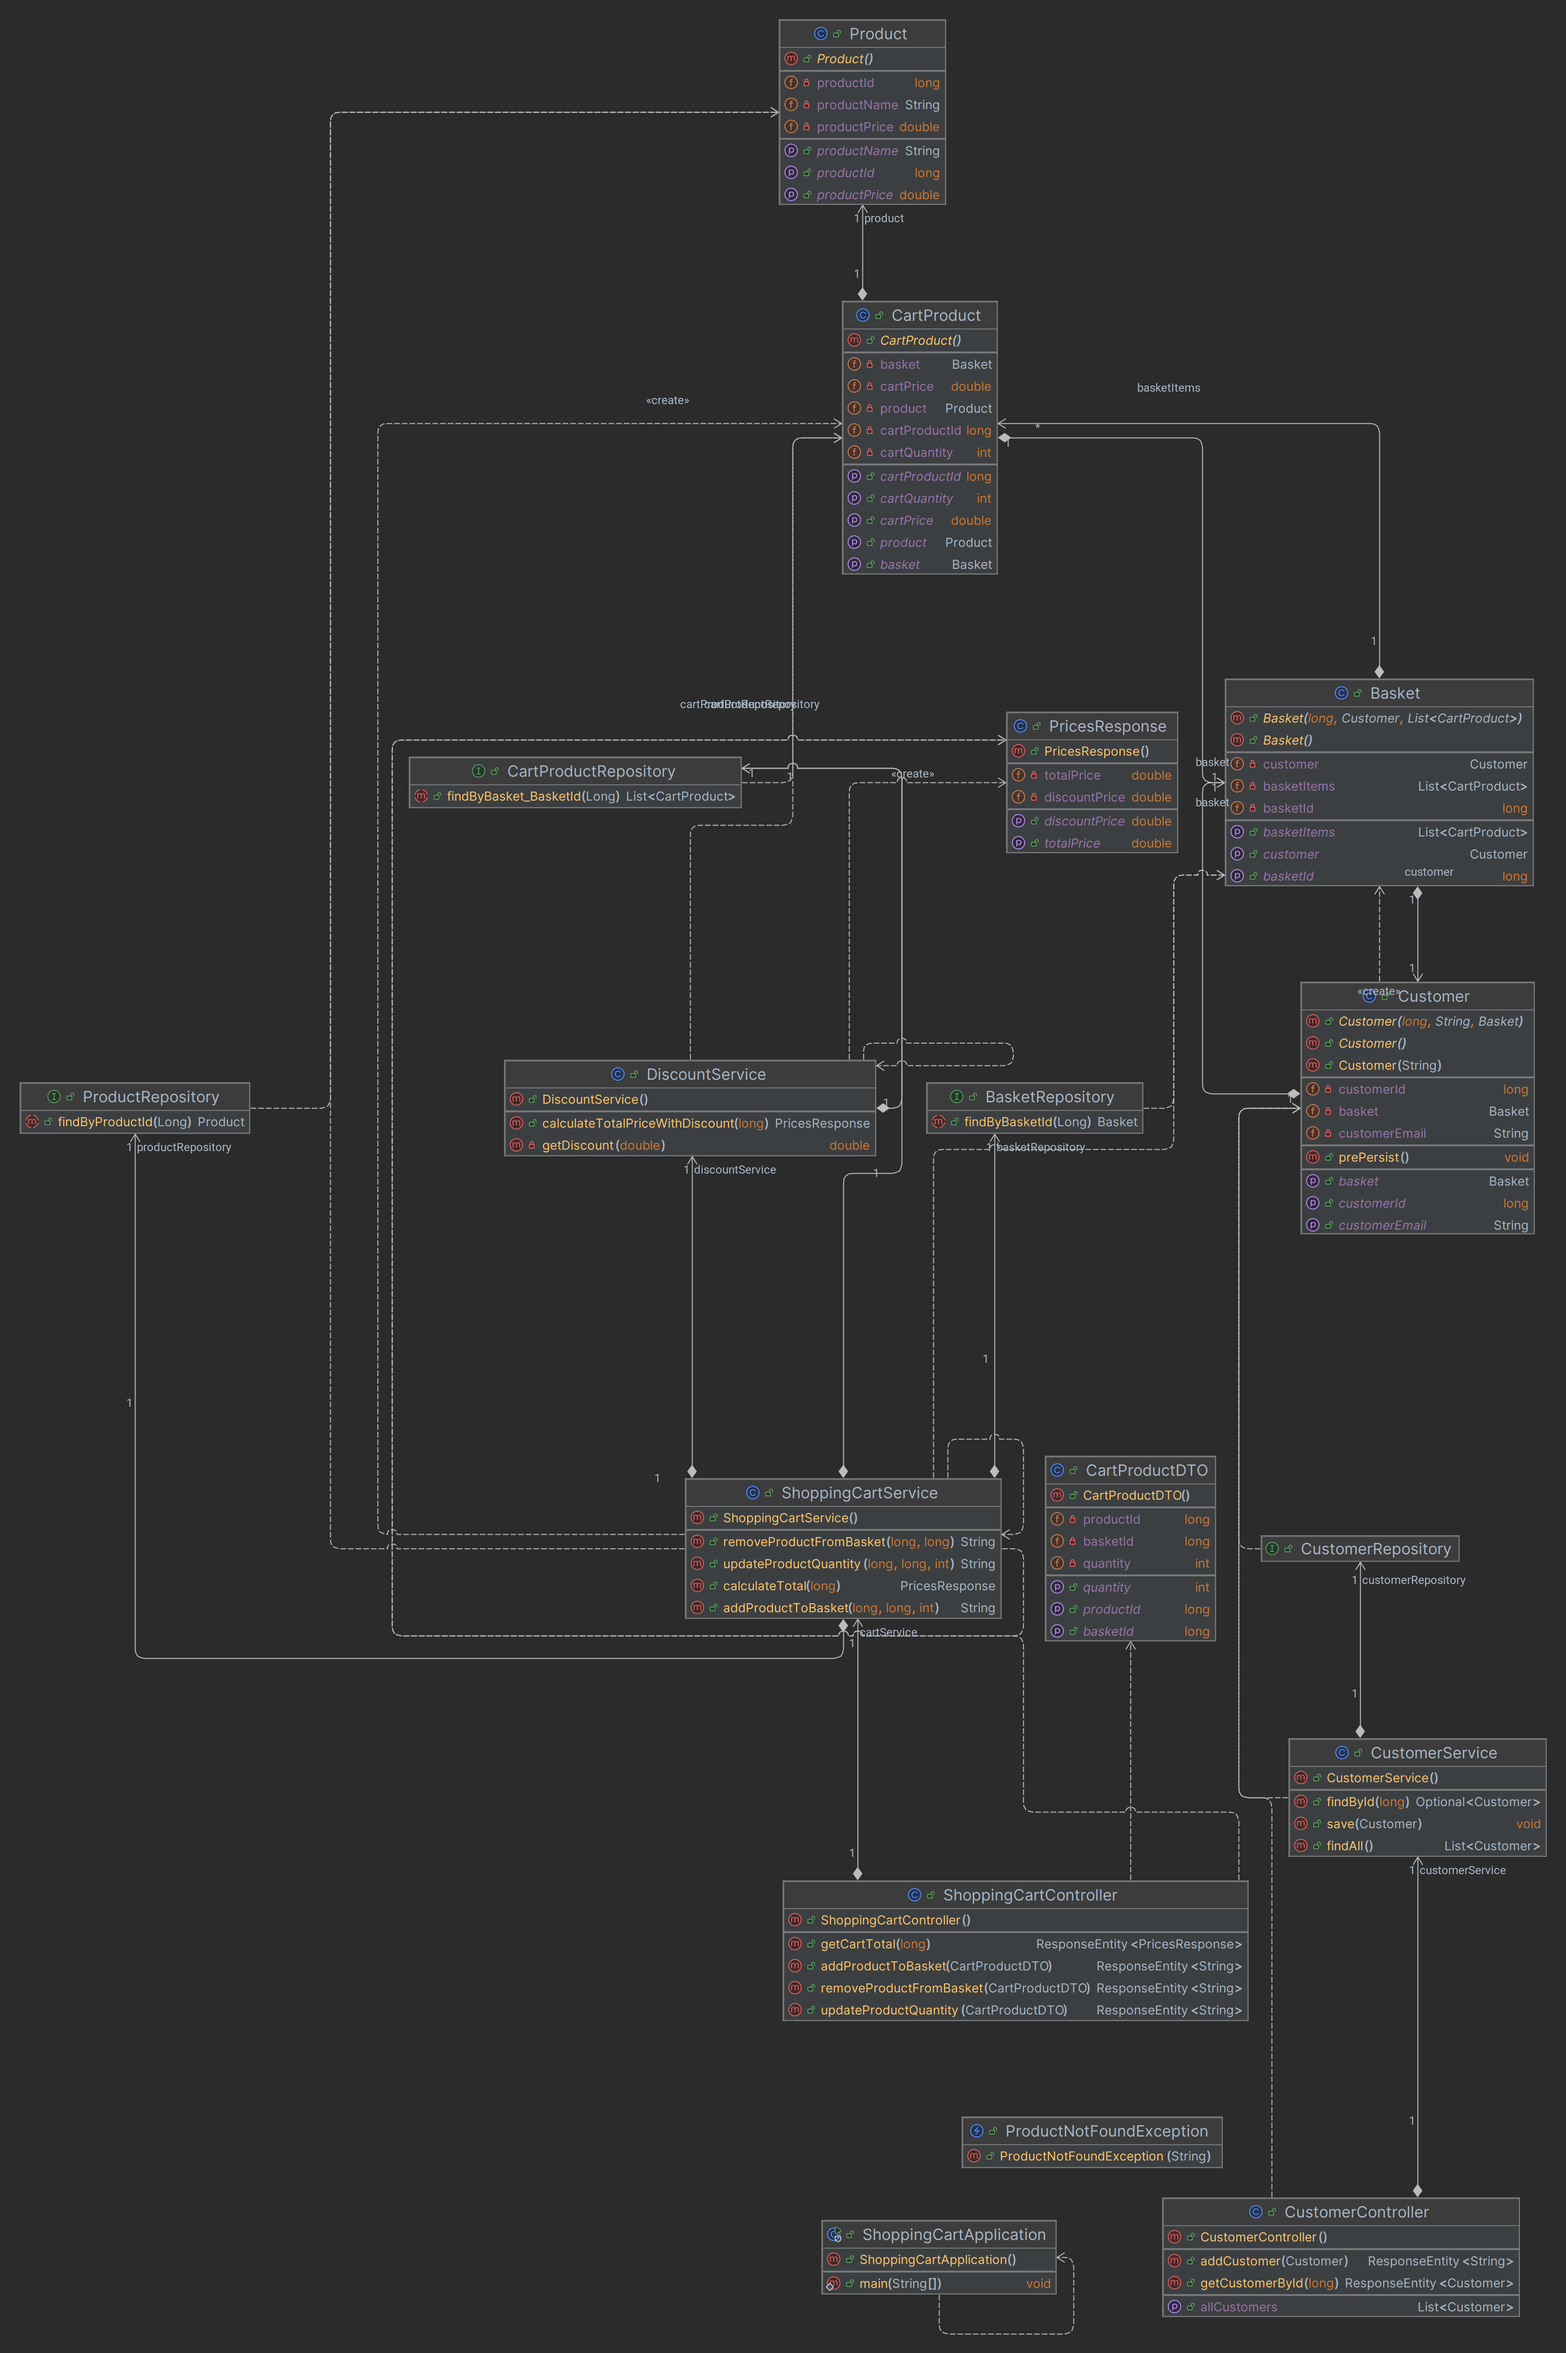
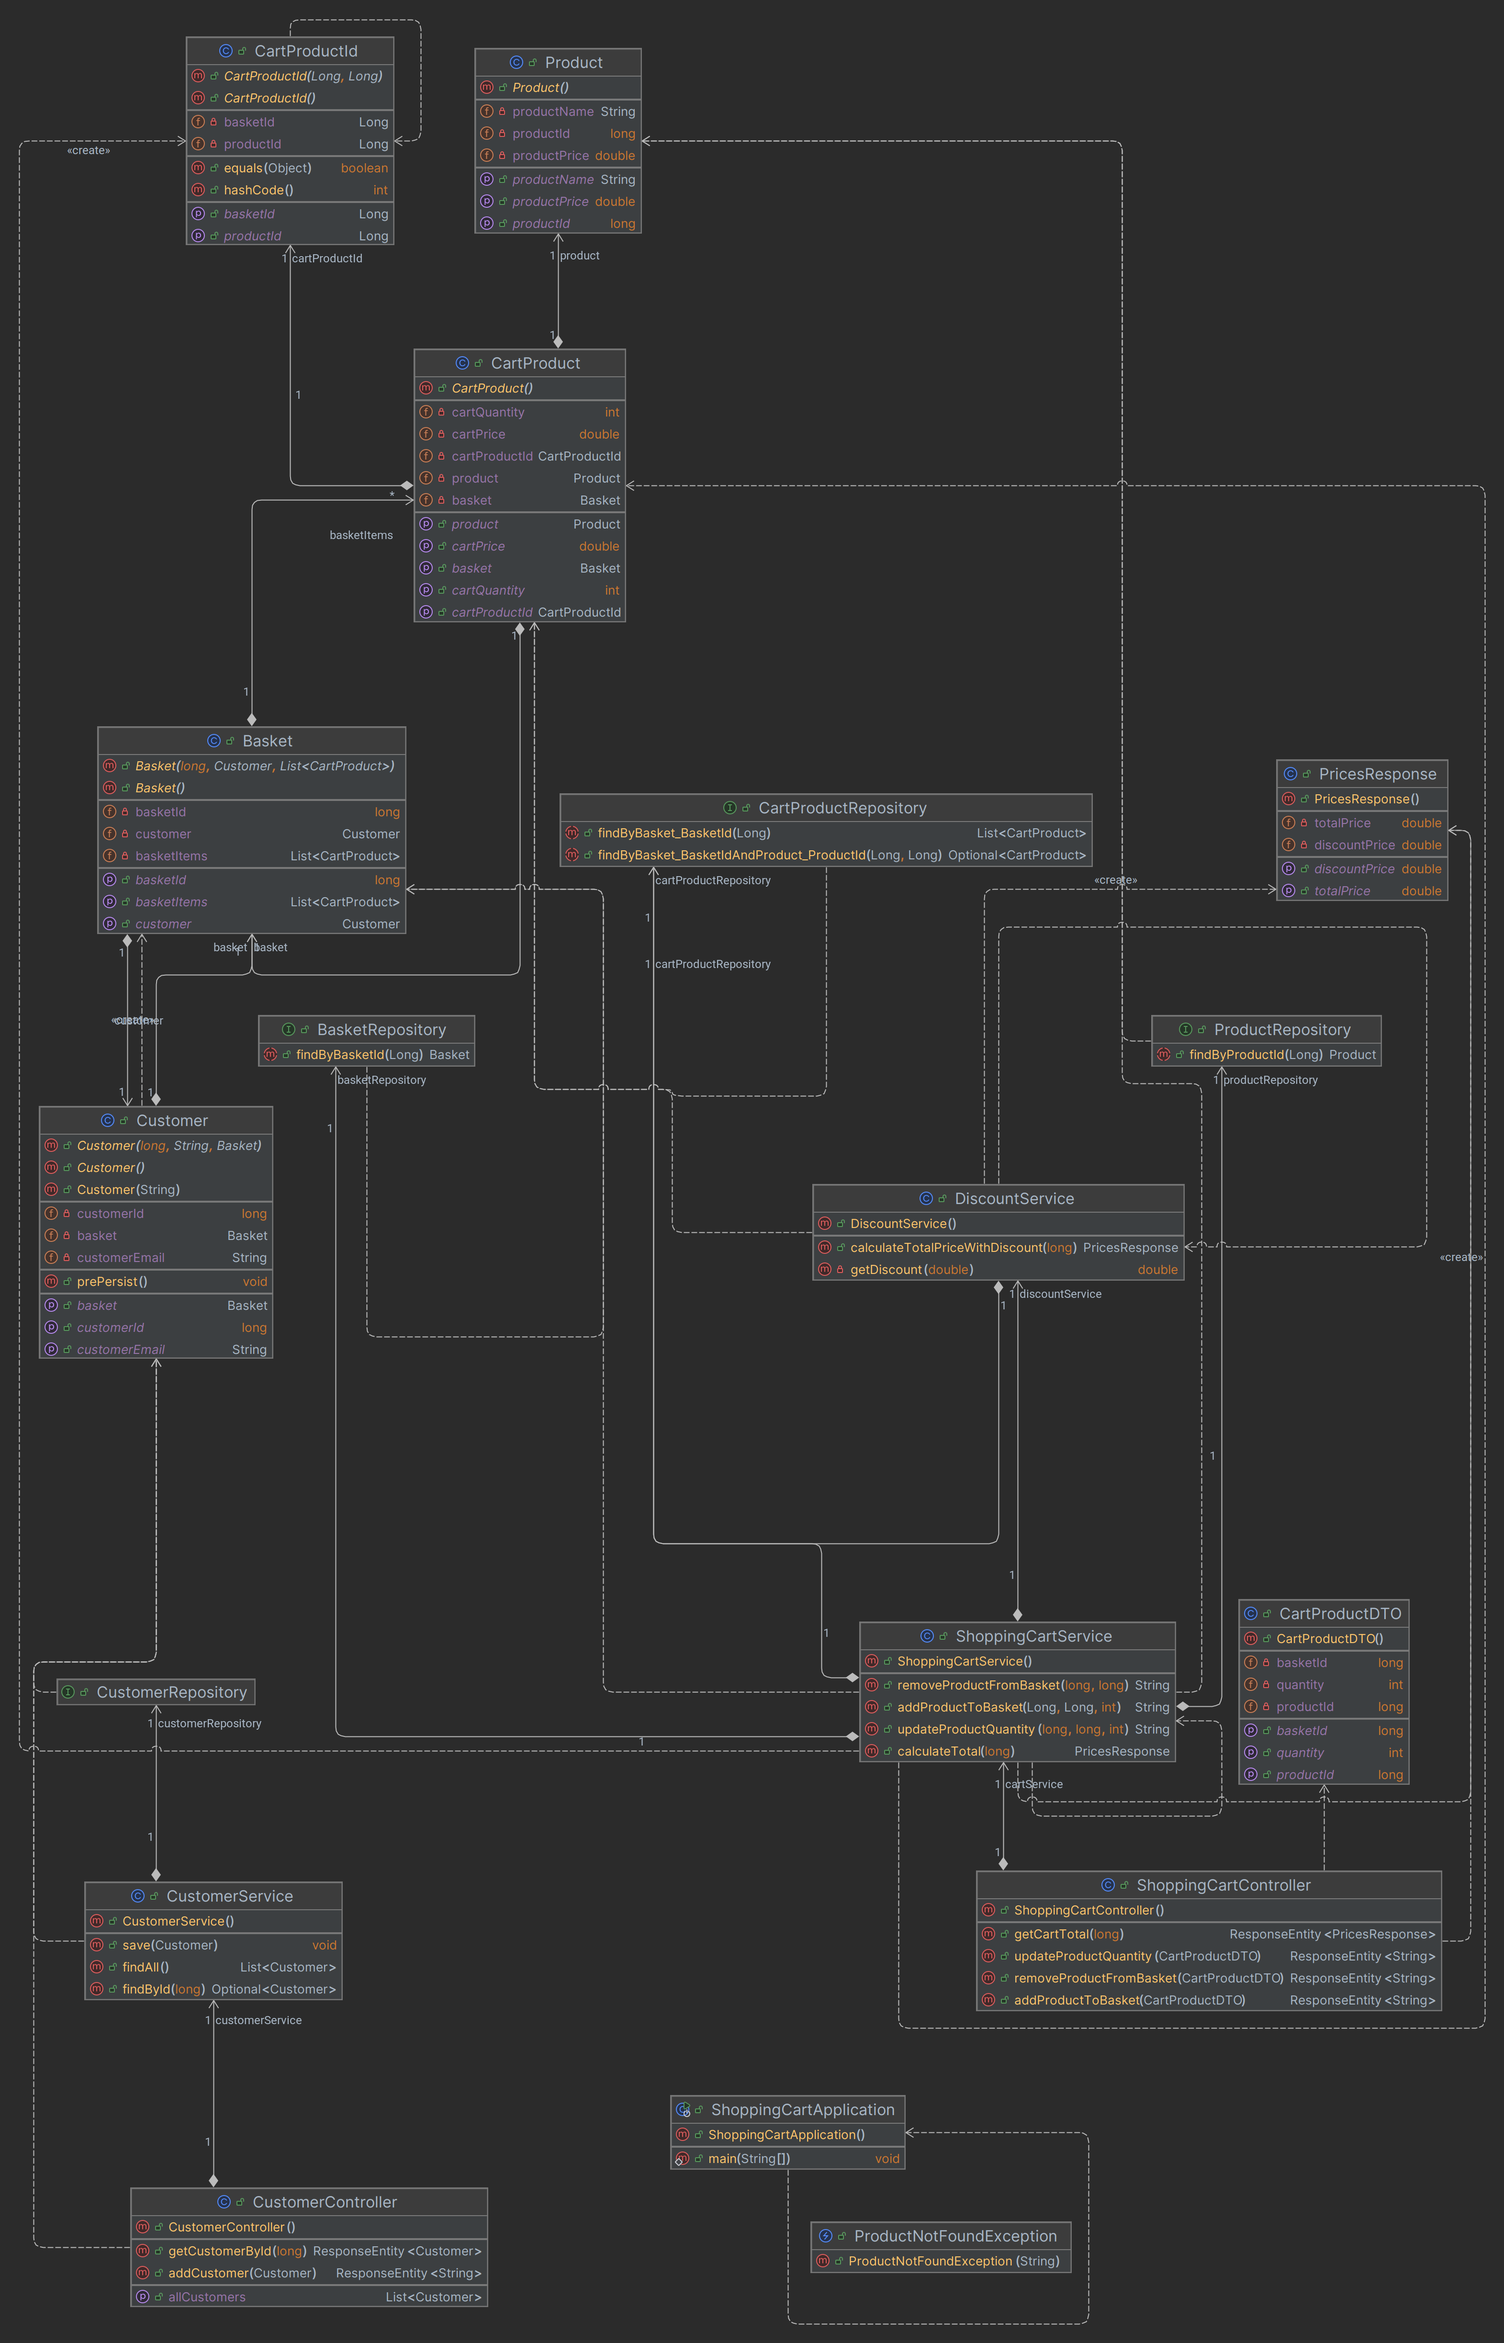
readme updated

diff --git a/src/main/java/com/ecommerce/shoppingcart/service/ShoppingCartService.java b/src/main/java/com/ecommerce/shoppingcart/service/ShoppingCartService.java
@@ -2,6 +2,7 @@ package com.ecommerce.shoppingcart.service;
 
 import com.ecommerce.shoppingcart.model.Basket;
 import com.ecommerce.shoppingcart.model.CartProduct;
+import com.ecommerce.shoppingcart.model.CartProductId;
 import com.ecommerce.shoppingcart.model.Product;
 import com.ecommerce.shoppingcart.model.dto.PricesResponse;
 import com.ecommerce.shoppingcart.repository.CartProductRepository;
@@ -9,8 +10,12 @@ import com.ecommerce.shoppingcart.repository.BasketRepository;
 import com.ecommerce.shoppingcart.repository.ProductRepository;
 import org.springframework.beans.factory.annotation.Autowired;
 import org.springframework.stereotype.Service;
+import org.springframework.transaction.annotation.Transactional;
+
+import java.util.Optional;
 
 @Service
+@Transactional
 public class ShoppingCartService {
 
     @Autowired
@@ -28,23 +33,31 @@ public class ShoppingCartService {
         return discountService.calculateTotalPriceWithDiscount(basketId);
     }
 
-    public String addProductToBasket(long basketId, long productId, int quantity) throws  RuntimeException {
+    public String addProductToBasket(Long basketId, Long productId, int quantity) throws RuntimeException {
         Basket basket = basketRepository.findById(basketId).orElseThrow(() -> new RuntimeException("Basket not found"));
-
         Product product = productRepository.findById(productId).orElseThrow(() -> new RuntimeException("Product not found"));
 
-        CartProduct cartProduct = new CartProduct();
-        cartProduct.setProduct(product);
-        cartProduct.setCartQuantity(quantity);
-        cartProduct.setCartPrice(product.getProductPrice() * quantity);
-        cartProduct.setBasket(basket);
+        Optional<CartProduct> existingCartProductOpt = cartProductRepository.findByBasket_BasketIdAndProduct_ProductId(basketId, productId);
 
-        basket.getBasketItems().add(cartProduct);
+        if (existingCartProductOpt.isPresent()) {
+            throw new RuntimeException("Product already exists!");
+        } else {
+            CartProduct cartProduct = new CartProduct();
+            CartProductId cartProductId = new CartProductId(basketId, productId);
+            cartProduct.setCartProductId(cartProductId);
 
-        cartProductRepository.save(cartProduct);
-        basketRepository.save(basket);
+            cartProduct.setBasket(basket);
+            cartProduct.setProduct(product);
+            cartProduct.setCartQuantity(quantity);
+            cartProduct.setCartPrice(product.getProductPrice() * quantity);
 
-        return "Product added to basket successfully!";
+            basket.getBasketItems().add(cartProduct);
+
+            cartProductRepository.save(cartProduct);
+            basketRepository.save(basket);
+
+            return "Product added to basket successfully!";
+        }
     }
 
     public String removeProductFromBasket(long basketId, long productId) throws RuntimeException{

diff --git a/src/test/java/com/ecommerce/shoppingcart/service/ShoppingCartServiceTest.java b/src/test/java/com/ecommerce/shoppingcart/service/ShoppingCartServiceTest.java
@@ -2,6 +2,7 @@ package com.ecommerce.shoppingcart.service;
 
 import com.ecommerce.shoppingcart.model.Basket;
 import com.ecommerce.shoppingcart.model.CartProduct;
+import com.ecommerce.shoppingcart.model.CartProductId;
 import com.ecommerce.shoppingcart.model.Product;
 import com.ecommerce.shoppingcart.repository.BasketRepository;
 import com.ecommerce.shoppingcart.repository.CartProductRepository;
@@ -13,6 +14,8 @@ import org.junit.jupiter.api.extension.ExtendWith;
 import org.mockito.InjectMocks;
 import org.mockito.Mock;
 import org.mockito.junit.jupiter.MockitoExtension;
+
+import static org.junit.jupiter.api.Assertions.assertThrows;
 import static org.mockito.Mockito.*;
 import static org.assertj.core.api.Assertions.assertThat;
 import java.util.ArrayList;
@@ -246,4 +249,35 @@ public class ShoppingCartServiceTest {
         assertThat(response).isEqualTo("Product quantity updated successfully!");
     }
 
+    @Test
+    public void testAddExistingProductThrowsException() {
+        Basket basket = new Basket();
+        basket.setBasketId(1L);
+
+        Product product = new Product();
+        product.setProductId(1L);
+        product.setProductName("Laptop");
+        product.setProductPrice(1000.00);
+
+        CartProduct existingCartProduct = new CartProduct();
+        existingCartProduct.setCartProductId(new CartProductId(1L, 1L));
+        existingCartProduct.setBasket(basket);
+        existingCartProduct.setProduct(product);
+        existingCartProduct.setCartQuantity(2);
+        existingCartProduct.setCartPrice(2000.00);
+
+        when(basketRepository.findById(1L)).thenReturn(Optional.of(basket));
+        when(productRepository.findById(1L)).thenReturn(Optional.of(product));
+        when(cartProductRepository.findByBasket_BasketIdAndProduct_ProductId(1L, 1L))
+                .thenReturn(Optional.of(existingCartProduct));
+
+        RuntimeException exception = assertThrows(RuntimeException.class, () -> {
+            shoppingCartService.addProductToBasket(1L, 1L, 3);
+        });
+
+        assertThat(exception.getMessage()).isEqualTo("Product already exists!");
+
+        verify(cartProductRepository, never()).save(any(CartProduct.class));
+        verify(basketRepository, never()).save(any(Basket.class));
+    }
 }

diff --git a/src/test/java/com/ecommerce/shoppingcart/model/CartProductIdTest.java b/src/test/java/com/ecommerce/shoppingcart/model/CartProductIdTest.java
@@ -1,0 +1,46 @@
+package com.ecommerce.shoppingcart.model;
+
+import org.junit.jupiter.api.Test;
+import static org.assertj.core.api.Assertions.assertThat;
+
+public class CartProductIdTest {
+
+    @Test
+    public void testGetterAndSetter() {
+        CartProductId cartProductId = new CartProductId();
+        cartProductId.setBasketId(1L);
+        cartProductId.setProductId(2L);
+
+        assertThat(cartProductId.getBasketId()).isEqualTo(1L);
+        assertThat(cartProductId.getProductId()).isEqualTo(2L);
+    }
+
+    @Test
+    public void testEqualsAndHashCode() {
+        CartProductId id1 = new CartProductId(1L, 2L);
+        CartProductId id2 = new CartProductId(1L, 2L);
+        CartProductId id3 = new CartProductId(2L, 3L);
+
+        assertThat(id1).isEqualTo(id2);
+        assertThat(id1).isNotEqualTo(id3);
+
+        assertThat(id1.hashCode()).isEqualTo(id2.hashCode());
+        assertThat(id1.hashCode()).isNotEqualTo(id3.hashCode());
+    }
+
+    @Test
+    public void testAllArgsConstructor() {
+        CartProductId cartProductId = new CartProductId(1L, 2L);
+
+        assertThat(cartProductId.getBasketId()).isEqualTo(1L);
+        assertThat(cartProductId.getProductId()).isEqualTo(2L);
+    }
+
+    @Test
+    public void testNoArgsConstructor() {
+        CartProductId cartProductId = new CartProductId();
+
+        assertThat(cartProductId.getBasketId()).isNull();
+        assertThat(cartProductId.getProductId()).isNull();
+    }
+}

diff --git a/src/main/java/com/ecommerce/shoppingcart/model/CartProduct.java b/src/main/java/com/ecommerce/shoppingcart/model/CartProduct.java
@@ -1,11 +1,10 @@
 package com.ecommerce.shoppingcart.model;
 
+import jakarta.persistence.EmbeddedId;
 import jakarta.persistence.Entity;
-import jakarta.persistence.GeneratedValue;
-import jakarta.persistence.GenerationType;
-import jakarta.persistence.Id;
 import jakarta.persistence.JoinColumn;
 import jakarta.persistence.ManyToOne;
+import jakarta.persistence.MapsId;
 import lombok.Getter;
 import lombok.NoArgsConstructor;
 import lombok.Setter;
@@ -16,19 +15,20 @@ import lombok.Setter;
 @NoArgsConstructor
 public class CartProduct {
 
-    @Id
-    @GeneratedValue(strategy = GenerationType.IDENTITY)
-    private long cartProductId;
+    @EmbeddedId
+    private CartProductId cartProductId;
 
-    private int cartQuantity;
-    private double cartPrice;
+    @MapsId("basketId")
+    @ManyToOne
+    @JoinColumn(name = "basket_id")
+    private Basket basket;
 
+    @MapsId("productId")
     @ManyToOne
     @JoinColumn(name = "product_id")
     private Product product;
 
-    @ManyToOne
-    @JoinColumn(name = "basket_id")
-    private Basket basket;
+    private int cartQuantity;
+    private double cartPrice;
 }
 

diff --git a/src/test/java/com/ecommerce/shoppingcart/model/CartProductTest.java b/src/test/java/com/ecommerce/shoppingcart/model/CartProductTest.java
@@ -15,17 +15,20 @@ public class CartProductTest {
         Basket basket = new Basket();
         basket.setBasketId(1L);
 
+        CartProductId cartProductId = new CartProductId(1L, 1L);
+
         CartProduct cartProduct = new CartProduct();
-        cartProduct.setCartProductId(1L);
+        cartProduct.setCartProductId(cartProductId);
         cartProduct.setCartQuantity(2);
         cartProduct.setCartPrice(29600.00);
         cartProduct.setProduct(product);
         cartProduct.setBasket(basket);
 
-        assertThat(cartProduct.getCartProductId()).isEqualTo(1L);
+        assertThat(cartProduct.getCartProductId().getBasketId()).isEqualTo(1L);
+        assertThat(cartProduct.getCartProductId().getProductId()).isEqualTo(1L);
         assertThat(cartProduct.getCartQuantity()).isEqualTo(2);
         assertThat(cartProduct.getCartPrice()).isEqualTo(29600.00);
         assertThat(cartProduct.getProduct().getProductName()).isEqualTo("Laptop");
-        assertThat(cartProduct.getBasket().getBasketId()).isEqualTo(1L);
     }
+
 }

diff --git a/src/main/java/com/ecommerce/shoppingcart/model/CartProductId.java b/src/main/java/com/ecommerce/shoppingcart/model/CartProductId.java
@@ -1,0 +1,40 @@
+package com.ecommerce.shoppingcart.model;
+
+import lombok.AllArgsConstructor;
+import lombok.Getter;
+import lombok.NoArgsConstructor;
+import lombok.Setter;
+
+import jakarta.persistence.Column;
+import jakarta.persistence.Embeddable;
+import java.io.Serializable;
+import java.util.Objects;
+
+@Getter
+@Setter
+@Embeddable
+@NoArgsConstructor
+@AllArgsConstructor
+public class CartProductId implements Serializable {
+
+    @Column(name = "basket_id")
+    private Long basketId;
+
+    @Column(name = "product_id")
+    private Long productId;
+
+    @Override
+    public boolean equals(Object o) {
+        if (this == o) return true;
+        if (!(o instanceof CartProductId)) return false;
+        CartProductId that = (CartProductId) o;
+        return Objects.equals(basketId, that.basketId) &&
+                Objects.equals(productId, that.productId);
+    }
+
+    @Override
+    public int hashCode() {
+        return Objects.hash(basketId, productId);
+    }
+}
+

diff --git a/src/test/java/com/ecommerce/shoppingcart/model/BasketTest.java b/src/test/java/com/ecommerce/shoppingcart/model/BasketTest.java
@@ -19,12 +19,10 @@ public class BasketTest {
         basket.setCustomer(customer);
 
         CartProduct cartProduct = new CartProduct();
-        cartProduct.setCartProductId(1L);
         basket.setBasketItems(List.of(cartProduct));
 
         assertThat(basket.getBasketId()).isEqualTo(1L);
         assertThat(basket.getCustomer().getCustomerEmail()).isEqualTo("test@example.com");
         assertThat(basket.getBasketItems()).hasSize(1);
-        assertThat(basket.getBasketItems().get(0).getCartProductId()).isEqualTo(1L);
     }
 }

diff --git a/src/main/java/com/ecommerce/shoppingcart/repository/CartProductRepository.java b/src/main/java/com/ecommerce/shoppingcart/repository/CartProductRepository.java
@@ -5,8 +5,10 @@ import org.springframework.data.jpa.repository.JpaRepository;
 import org.springframework.stereotype.Repository;
 
 import java.util.List;
+import java.util.Optional;
 
 @Repository
 public interface CartProductRepository extends JpaRepository<CartProduct, Long> {
     List<CartProduct> findByBasket_BasketId(Long basketId);
+    Optional<CartProduct> findByBasket_BasketIdAndProduct_ProductId(Long basketId, Long productId);
 }
